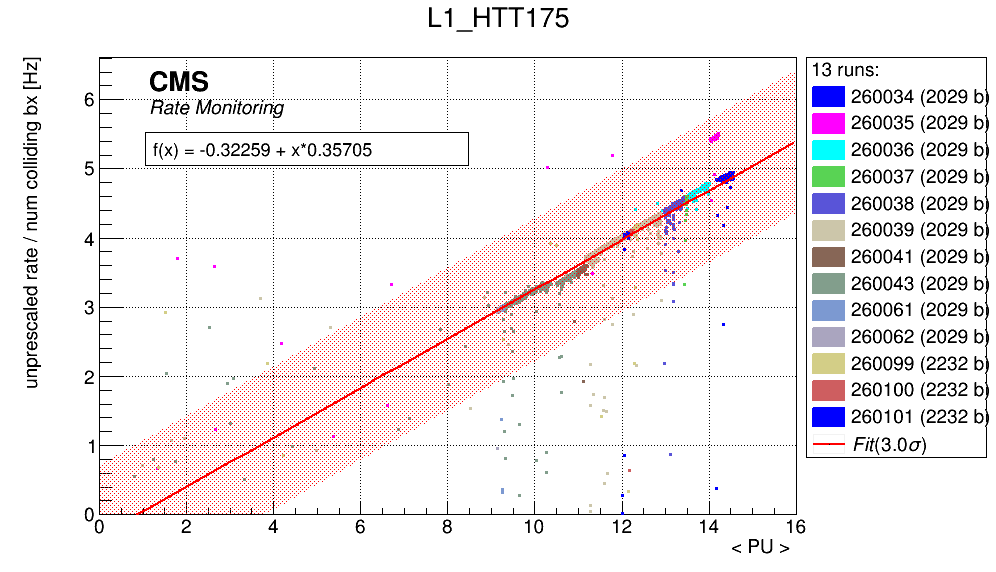
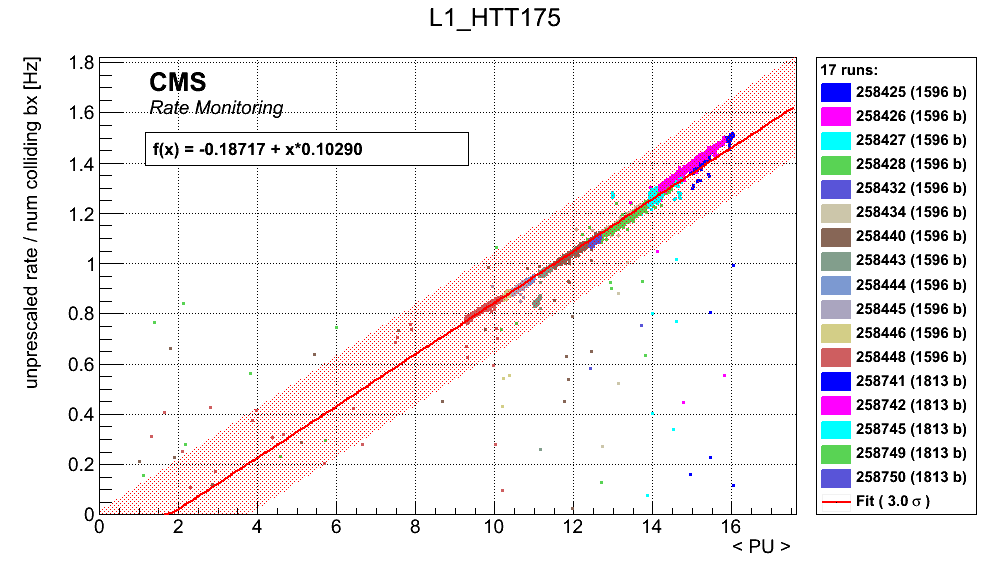
reverting back to 3.8T fits, monitorlist

diff --git a/Fits/2015/plots/index.html b/Fits/2015/plots/index.html
@@ -1,33 +1,37 @@
 <!DOCTYPE html>
 <html>
 <style>.image { float:right; margin: 5px; clear:justify; font-size: 6px; font-family: Verdana, Arial, sans-serif; text-align: center;}</style>
+<div class=image><a href='HLT_Mu23_TrkIsoVVL_Ele12_CaloIdL_TrackIdL_IsoVL.png'><img width=398 height=229 border=0 src='HLT_Mu23_TrkIsoVVL_Ele12_CaloIdL_TrackIdL_IsoVL.png'></a><div style='width:398px'>HLT_Mu23_TrkIsoVVL_Ele12_CaloIdL_TrackIdL_IsoVL</div></div>
+<div class=image><a href='HLT_QuadJet45_TripleBTagCSV0p67.png'><img width=398 height=229 border=0 src='HLT_QuadJet45_TripleBTagCSV0p67.png'></a><div style='width:398px'>HLT_QuadJet45_TripleBTagCSV0p67</div></div>
 <div class=image><a href='HLT_CaloJet500_NoJetID.png'><img width=398 height=229 border=0 src='HLT_CaloJet500_NoJetID.png'></a><div style='width:398px'>HLT_CaloJet500_NoJetID</div></div>
-<div class=image><a href='HLT_DiSC30_18_EIso_AND_HE_Mass70.png'><img width=398 height=229 border=0 src='HLT_DiSC30_18_EIso_AND_HE_Mass70.png'></a><div style='width:398px'>HLT_DiSC30_18_EIso_AND_HE_Mass70</div></div>
-<div class=image><a href='HLT_DoubleEle25_CaloIdL_GsfTrkIdVL.png'><img width=398 height=229 border=0 src='HLT_DoubleEle25_CaloIdL_GsfTrkIdVL.png'></a><div style='width:398px'>HLT_DoubleEle25_CaloIdL_GsfTrkIdVL</div></div>
-<div class=image><a href='HLT_DoubleEle33_CaloIdL_GsfTrkIdVL.png'><img width=398 height=229 border=0 src='HLT_DoubleEle33_CaloIdL_GsfTrkIdVL.png'></a><div style='width:398px'>HLT_DoubleEle33_CaloIdL_GsfTrkIdVL</div></div>
-<div class=image><a href='HLT_DoublePhoton40.png'><img width=398 height=229 border=0 src='HLT_DoublePhoton40.png'></a><div style='width:398px'>HLT_DoublePhoton40</div></div>
-<div class=image><a href='HLT_Ele105_CaloIdVT_GsfTrkIdT.png'><img width=398 height=229 border=0 src='HLT_Ele105_CaloIdVT_GsfTrkIdT.png'></a><div style='width:398px'>HLT_Ele105_CaloIdVT_GsfTrkIdT</div></div>
-<div class=image><a href='HLT_Ele23_WPLoose_Gsf.png'><img width=398 height=229 border=0 src='HLT_Ele23_WPLoose_Gsf.png'></a><div style='width:398px'>HLT_Ele23_WPLoose_Gsf</div></div>
-<div class=image><a href='HLT_Ele32_WPLoose_Gsf.png'><img width=398 height=229 border=0 src='HLT_Ele32_WPLoose_Gsf.png'></a><div style='width:398px'>HLT_Ele32_WPLoose_Gsf</div></div>
-<div class=image><a href='HLT_HT575.png'><img width=398 height=229 border=0 src='HLT_HT575.png'></a><div style='width:398px'>HLT_HT575</div></div>
-<div class=image><a href='HLT_IsoMu20.png'><img width=398 height=229 border=0 src='HLT_IsoMu20.png'></a><div style='width:398px'>HLT_IsoMu20</div></div>
-<div class=image><a href='HLT_MET100_JetIdCleaned.png'><img width=398 height=229 border=0 src='HLT_MET100_JetIdCleaned.png'></a><div style='width:398px'>HLT_MET100_JetIdCleaned</div></div>
-<div class=image><a href='HLT_MET250.png'><img width=398 height=229 border=0 src='HLT_MET250.png'></a><div style='width:398px'>HLT_MET250</div></div>
-<div class=image><a href='HLT_Mu20.png'><img width=398 height=229 border=0 src='HLT_Mu20.png'></a><div style='width:398px'>HLT_Mu20</div></div>
-<div class=image><a href='HLT_Mu33NoFiltersNoVtxDisplaced_DisplacedJet50_Loose.png'><img width=398 height=229 border=0 src='HLT_Mu33NoFiltersNoVtxDisplaced_DisplacedJet50_Loose.png'></a><div style='width:398px'>HLT_Mu33NoFiltersNoVtxDisplaced_DisplacedJet50_Loose</div></div>
-<div class=image><a href='HLT_PFMET170_NoiseCleaned.png'><img width=398 height=229 border=0 src='HLT_PFMET170_NoiseCleaned.png'></a><div style='width:398px'>HLT_PFMET170_NoiseCleaned</div></div>
+<div class=image><a href='HLT_PFJet450.png'><img width=398 height=229 border=0 src='HLT_PFJet450.png'></a><div style='width:398px'>HLT_PFJet450</div></div>
 <div class=image><a href='HLT_Photon175.png'><img width=398 height=229 border=0 src='HLT_Photon175.png'></a><div style='width:398px'>HLT_Photon175</div></div>
-<div class=image><a href='L1_ETM70.png'><img width=398 height=229 border=0 src='L1_ETM70.png'></a><div style='width:398px'>L1_ETM70</div></div>
-<div class=image><a href='L1_HTT175.png'><img width=398 height=229 border=0 src='L1_HTT175.png'></a><div style='width:398px'>L1_HTT175</div></div>
-<div class=image><a href='L1_SingleEG20.png'><img width=398 height=229 border=0 src='L1_SingleEG20.png'></a><div style='width:398px'>L1_SingleEG20</div></div>
-<div class=image><a href='L1_SingleEG30.png'><img width=398 height=229 border=0 src='L1_SingleEG30.png'></a><div style='width:398px'>L1_SingleEG30</div></div>
-<div class=image><a href='L1_SingleEG40.png'><img width=398 height=229 border=0 src='L1_SingleEG40.png'></a><div style='width:398px'>L1_SingleEG40</div></div>
-<div class=image><a href='L1_SingleEG5.png'><img width=398 height=229 border=0 src='L1_SingleEG5.png'></a><div style='width:398px'>L1_SingleEG5</div></div>
-<div class=image><a href='L1_SingleIsoEG18er.png'><img width=398 height=229 border=0 src='L1_SingleIsoEG18er.png'></a><div style='width:398px'>L1_SingleIsoEG18er</div></div>
-<div class=image><a href='L1_SingleIsoEG30er.png'><img width=398 height=229 border=0 src='L1_SingleIsoEG30er.png'></a><div style='width:398px'>L1_SingleIsoEG30er</div></div>
-<div class=image><a href='L1_SingleJet128.png'><img width=398 height=229 border=0 src='L1_SingleJet128.png'></a><div style='width:398px'>L1_SingleJet128</div></div>
+<div class=image><a href='HLT_DoubleEle33_CaloIdL_GsfTrkIdVL.png'><img width=398 height=229 border=0 src='HLT_DoubleEle33_CaloIdL_GsfTrkIdVL.png'></a><div style='width:398px'>HLT_DoubleEle33_CaloIdL_GsfTrkIdVL</div></div>
+<div class=image><a href='HLT_MET250.png'><img width=398 height=229 border=0 src='HLT_MET250.png'></a><div style='width:398px'>HLT_MET250</div></div>
+<div class=image><a href='HLT_Mu17_TrkIsoVVL_Mu8_TrkIsoVVL_DZ.png'><img width=398 height=229 border=0 src='HLT_Mu17_TrkIsoVVL_Mu8_TrkIsoVVL_DZ.png'></a><div style='width:398px'>HLT_Mu17_TrkIsoVVL_Mu8_TrkIsoVVL_DZ</div></div>
+<div class=image><a href='HLT_PFMET170_NoiseCleaned.png'><img width=398 height=229 border=0 src='HLT_PFMET170_NoiseCleaned.png'></a><div style='width:398px'>HLT_PFMET170_NoiseCleaned</div></div>
+<div class=image><a href='HLT_Ele105_CaloIdVT_GsfTrkIdT.png'><img width=398 height=229 border=0 src='HLT_Ele105_CaloIdVT_GsfTrkIdT.png'></a><div style='width:398px'>HLT_Ele105_CaloIdVT_GsfTrkIdT</div></div>
+<div class=image><a href='HLT_Photon36_R9Id85_OR_CaloId24b40e_Iso50T80L_Photon22_AND_HE10_R9Id65_Eta2_Mass15.png'><img width=398 height=229 border=0 src='HLT_Photon36_R9Id85_OR_CaloId24b40e_Iso50T80L_Photon22_AND_HE10_R9Id65_Eta2_Mass15.png'></a><div style='width:398px'>HLT_Photon36_R9Id85_OR_CaloId24b40e_Iso50T80L_Photon22_AND_HE10_R9Id65_Eta2_Mass15</div></div>
+<div class=image><a href='HLT_PFMET120_PFMHT120_IDTight.png'><img width=398 height=229 border=0 src='HLT_PFMET120_PFMHT120_IDTight.png'></a><div style='width:398px'>HLT_PFMET120_PFMHT120_IDTight</div></div>
+<div class=image><a href='HLT_PFHT800.png'><img width=398 height=229 border=0 src='HLT_PFHT800.png'></a><div style='width:398px'>HLT_PFHT800</div></div>
+<div class=image><a href='HLT_DoubleMediumIsoPFTau35_Trk1_eta2p1_Reg.png'><img width=398 height=229 border=0 src='HLT_DoubleMediumIsoPFTau35_Trk1_eta2p1_Reg.png'></a><div style='width:398px'>HLT_DoubleMediumIsoPFTau35_Trk1_eta2p1_Reg</div></div>
+<div class=image><a href='HLT_Mu45_eta2p1.png'><img width=398 height=229 border=0 src='HLT_Mu45_eta2p1.png'></a><div style='width:398px'>HLT_Mu45_eta2p1</div></div>
+<div class=image><a href='HLT_AK8DiPFJet250_200_TrimMass30_BTagCSV0p45.png'><img width=398 height=229 border=0 src='HLT_AK8DiPFJet250_200_TrimMass30_BTagCSV0p45.png'></a><div style='width:398px'>HLT_AK8DiPFJet250_200_TrimMass30_BTagCSV0p45</div></div>
+<div class=image><a href='HLT_HT650.png'><img width=398 height=229 border=0 src='HLT_HT650.png'></a><div style='width:398px'>HLT_HT650</div></div>
+<div class=image><a href='HLT_IsoMu27.png'><img width=398 height=229 border=0 src='HLT_IsoMu27.png'></a><div style='width:398px'>HLT_IsoMu27</div></div>
+<div class=image><a href='HLT_Ele27_WPLoose_Gsf.png'><img width=398 height=229 border=0 src='HLT_Ele27_WPLoose_Gsf.png'></a><div style='width:398px'>HLT_Ele27_WPLoose_Gsf</div></div>
 <div class=image><a href='L1_SingleJet200.png'><img width=398 height=229 border=0 src='L1_SingleJet200.png'></a><div style='width:398px'>L1_SingleJet200</div></div>
-<div class=image><a href='L1_SingleJet68.png'><img width=398 height=229 border=0 src='L1_SingleJet68.png'></a><div style='width:398px'>L1_SingleJet68</div></div>
-<div class=image><a href='L1_SingleMu16.png'><img width=398 height=229 border=0 src='L1_SingleMu16.png'></a><div style='width:398px'>L1_SingleMu16</div></div>
+<div class=image><a href='L1_DoubleJetC100.png'><img width=398 height=229 border=0 src='L1_DoubleJetC100.png'></a><div style='width:398px'>L1_DoubleJetC100</div></div>
+<div class=image><a href='L1_ETM70.png'><img width=398 height=229 border=0 src='L1_ETM70.png'></a><div style='width:398px'>L1_ETM70</div></div>
+<div class=image><a href='L1_SingleEG40.png'><img width=398 height=229 border=0 src='L1_SingleEG40.png'></a><div style='width:398px'>L1_SingleEG40</div></div>
+<div class=image><a href='L1_HTT175.png'><img width=398 height=229 border=0 src='L1_HTT175.png'></a><div style='width:398px'>L1_HTT175</div></div>
+<div class=image><a href='L1_SingleJet128.png'><img width=398 height=229 border=0 src='L1_SingleJet128.png'></a><div style='width:398px'>L1_SingleJet128</div></div>
+<div class=image><a href='L1_SingleMu20er.png'><img width=398 height=229 border=0 src='L1_SingleMu20er.png'></a><div style='width:398px'>L1_SingleMu20er</div></div>
+<div class=image><a href='L1_SingleIsoEG30er.png'><img width=398 height=229 border=0 src='L1_SingleIsoEG30er.png'></a><div style='width:398px'>L1_SingleIsoEG30er</div></div>
 <div class=image><a href='L1_SingleMu25.png'><img width=398 height=229 border=0 src='L1_SingleMu25.png'></a><div style='width:398px'>L1_SingleMu25</div></div>
+<div class=image><a href='L1_SingleEG30.png'><img width=398 height=229 border=0 src='L1_SingleEG30.png'></a><div style='width:398px'>L1_SingleEG30</div></div>
+<div class=image><a href='L1_SingleMu16.png'><img width=398 height=229 border=0 src='L1_SingleMu16.png'></a><div style='width:398px'>L1_SingleMu16</div></div>
+<div class=image><a href='L1_SingleIsoEG18er.png'><img width=398 height=229 border=0 src='L1_SingleIsoEG18er.png'></a><div style='width:398px'>L1_SingleIsoEG18er</div></div>
+<div class=image><a href='L1_SingleEG20.png'><img width=398 height=229 border=0 src='L1_SingleEG20.png'></a><div style='width:398px'>L1_SingleEG20</div></div>
+<div class=image><a href='L1_SingleJet68.png'><img width=398 height=229 border=0 src='L1_SingleJet68.png'></a><div style='width:398px'>L1_SingleJet68</div></div>
 </html>
